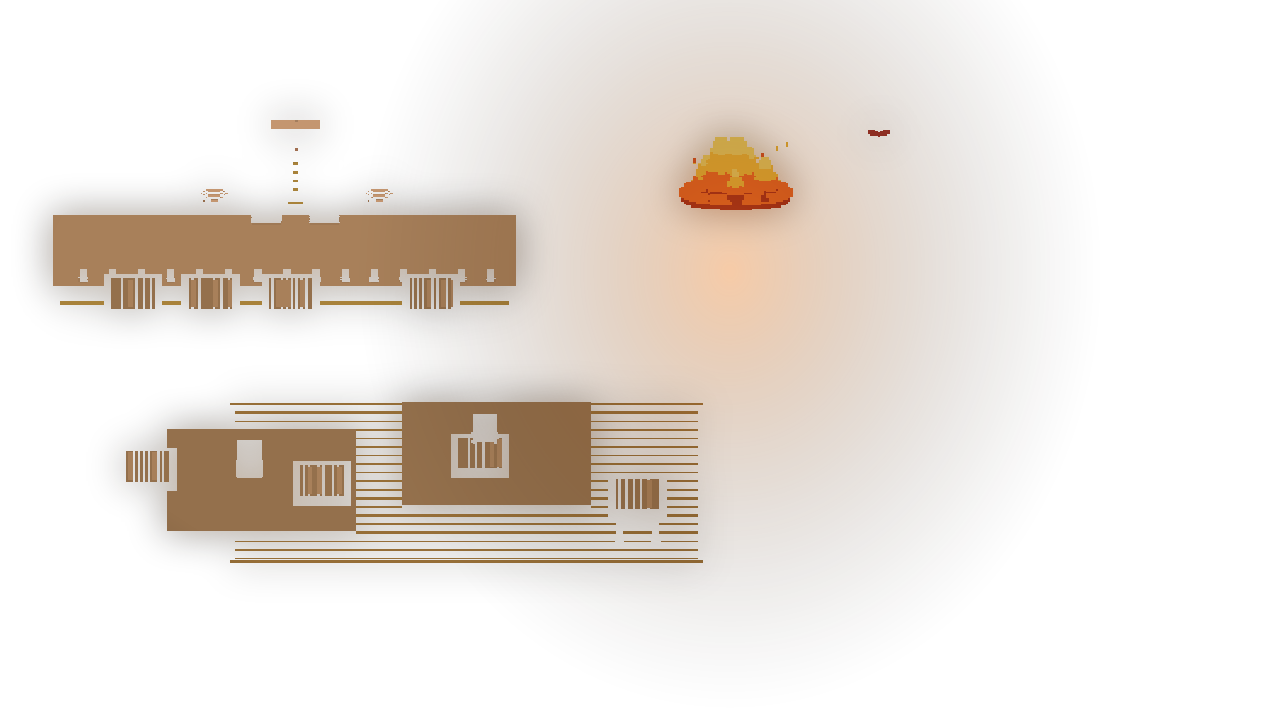
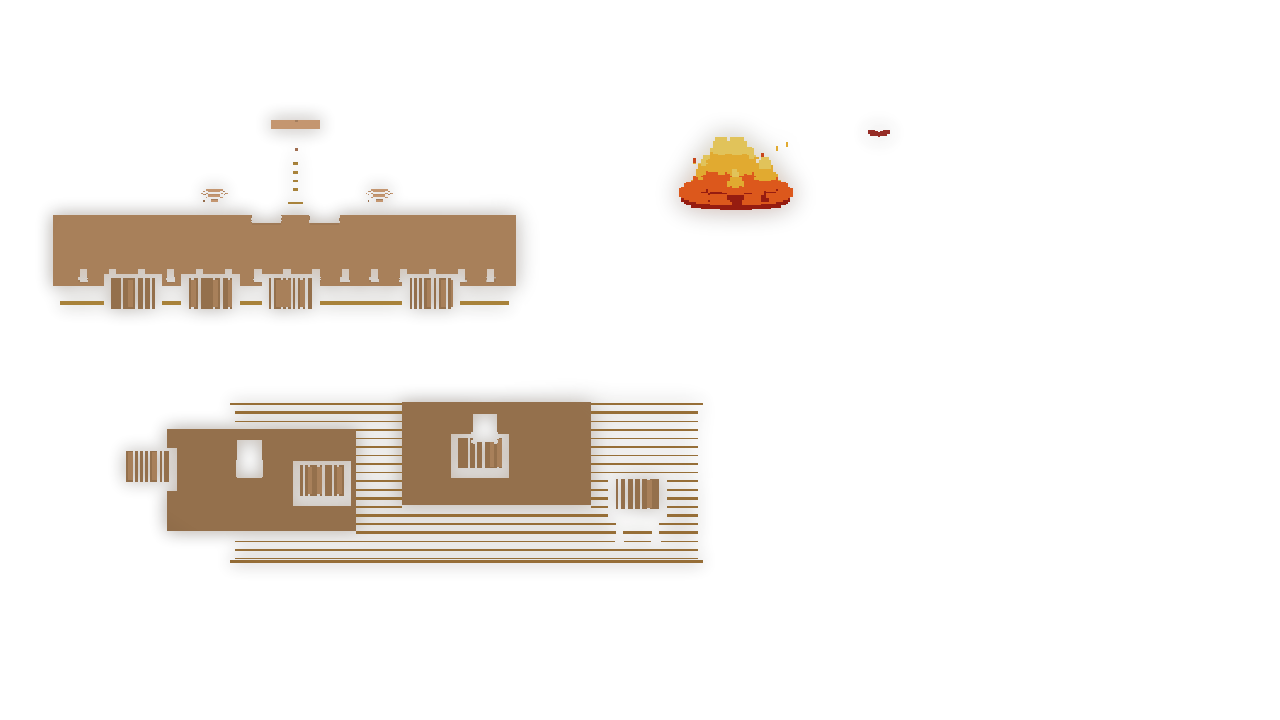
art(saloon): fix fire-glow regressions vs bb36a04
Restore bb36 night grade/contrast outside the hearth, replace the
hard-edged lights pool with a soft blurred radial, keep the fuller
flames, and feather flicker sheet edges. Concept selected state stays
Old Magda / DRIVER / 60 scrap at table_left.

diff --git a/tools/art/saloon_hd.py b/tools/art/saloon_hd.py
@@ -637,10 +637,9 @@ def place_on_room(img, own_img, room=(1280, 720), target_crew_h=TARGET_CREW_H):
 
 
 def grade_night(rgba, em, pool_boost=1.0):
-    """Grade ambient/shadows toward #512b11; keep lit-surface hue.
-    Fireplace is the hero light: warm floor pool (~350px), rim on fire-facing
-    surfaces, glow on hearth/mantel; far corners stay dark. pool_boost pulses
-    the glow with flicker frames (~0.85–1.15)."""
+    """bb36a04 night grade (hue-preserving) + soft hearth glow only.
+    Glow is a heavily blurred radial — no hard circle/rect edges.
+    pool_boost pulses with flicker (~0.85–1.15)."""
     rgb = rgba[:, :, :3].astype(np.float32)
     tint = np.array([0x51, 0x2b, 0x11], dtype=np.float32)
     lum = (rgb @ np.array([0.299, 0.587, 0.114], dtype=np.float32))
@@ -653,86 +652,70 @@ def grade_night(rgba, em, pool_boost=1.0):
     out = ambient * (1.0 - lit[..., None]) + warm_lit * lit[..., None]
     body = (rgba[:, :, 3] > 0) & ~em
     out[body] = np.clip(out[body] * (0.95 + 0.08 * lit[body][..., None]) + 3.0, 0, 255)
-
-    # --- Fireplace hero pool + rim (screen-space) ---
+    e = np.zeros_like(out)
+    e[em] = np.clip(rgb[em], 0, 230)
+    glow = np.array(Image.fromarray(np.clip(e, 0, 255).astype(np.uint8)).filter(
+        ImageFilter.GaussianBlur(10))).astype(np.float32)
+    out = out + glow * 0.45
+    out = np.clip(out, 0, 235)
+    out[em] = np.clip(rgb[em], 0, 225)
+    near_white = (out[:, :, 0] > 220) & (out[:, :, 1] > 220) & (out[:, :, 2] > 200)
+    if near_white.any():
+        out[near_white] = np.array([225, 160, 55], dtype=np.float32)
     H, W = out.shape[:2]
     Y, X = np.mgrid[0:H, 0:W].astype(np.float32)
-    # Prefer fire em in the back-centre band (exclude table lanterns)
-    # Hearth band only — exclude bar/table lanterns (fire sits ~centre-back)
-    fire_band = em & (Y < H * 0.48) & (X > W * 0.40) & (X < W * 0.72)
+    v = np.clip((np.hypot((X - W / 2) / (W * 0.60), (Y - H * 0.42) / (H * 0.60)) - 0.78) / 0.42, 0, 1)
+    out *= (1.0 - 0.42 * v)[..., None]
+
+    # --- Soft hearth hero glow (no hard edge) ---
+    # Hearth band only — exclude lanterns
+    fire_band = em & (Y < H * 0.48) & (X > W * 0.42) & (X < W * 0.70)
     if fire_band.any():
         ys, xs = np.where(fire_band)
         fcx, fcy = float(xs.mean()), float(ys.mean())
     else:
         fcx, fcy = W * 0.55, H * 0.22
-    # Floor pool centre sits in front of the hearth opening
-    pcx, pcy = fcx, min(H - 1.0, fcy + 90.0)
-    dist = np.hypot(X - pcx, (Y - pcy) * 0.85)
-    # ~350–400 px soft falloff
-    pool = np.clip(1.0 - dist / 380.0, 0, 1) ** 1.25
+    # Floor pool sits in front of the hearth
+    pcx, pcy = fcx, min(H - 1.0, fcy + 85.0)
+    dist = np.hypot(X - pcx, (Y - pcy) * 0.88)
+    # Soft analytic falloff, then heavy blur so no shape edge is visible
+    raw = np.clip(1.0 - dist / 260.0, 0, 1)
+    raw = raw * raw * (3.0 - 2.0 * raw)  # smoothstep
+    pool = np.array(Image.fromarray((raw * 255).astype(np.uint8)).filter(
+        ImageFilter.GaussianBlur(56))).astype(np.float32) / 255.0
+    # Tiny dither breaks any residual banding
+    pool = np.clip(pool + (np.random.default_rng(3).random(pool.shape).astype(np.float32) - 0.5) * 0.03 * pool, 0, 1)
     pool *= float(pool_boost)
-    warm = np.array([1.60, 0.92, 0.38], dtype=np.float32)
-    add = pool[..., None] * warm[None, None, :] * 72.0
+    warm = np.array([1.55, 0.90, 0.35], dtype=np.float32)
+    # Additive warm lift on body only — leaves far regions at bb36 grade
+    add = pool[..., None] * warm[None, None, :] * 20.0
     out[body] = np.clip(out[body] + add[body], 0, 235)
-    # Warm rim on surfaces facing the fire (toward-fire side)
-    toward = np.clip(1.0 - np.hypot(X - fcx, Y - fcy) / 320.0, 0, 1)
-    rim = (toward * np.clip(pool * 1.1, 0, 1) * 0.7 * float(pool_boost))[..., None]
-    rim = rim * np.array([48.0, 26.0, 8.0], dtype=np.float32)
+    # Soft rim toward fire (also blurred weight)
+    toward = np.array(Image.fromarray(
+        (np.clip(1.0 - np.hypot(X - fcx, Y - fcy) / 300.0, 0, 1) * 255).astype(np.uint8)
+    ).filter(ImageFilter.GaussianBlur(24))).astype(np.float32) / 255.0
+    rim = (toward * pool * 0.35 * float(pool_boost))[..., None] * np.array([22.0, 12.0, 4.0], dtype=np.float32)
     out[body] = np.clip(out[body] + rim[body], 0, 235)
-    # Glow on hearth stones / mantel (tight to fire)
-    hearth = body & (np.hypot(X - fcx, Y - fcy) < 110)
-    out[hearth] = np.clip(out[hearth] + np.array([38, 20, 6], dtype=np.float32) * float(pool_boost), 0, 235)
-    # Soft warm cast on nearby beams/ceiling
-    ceil = (Y < fcy + 40) & (np.abs(X - fcx) < 240) & body
-    out[ceil] = np.clip(out[ceil] + np.array([34, 18, 6], dtype=np.float32) * float(pool_boost), 0, 235)
-
-    # Emissive sculpt + hard anti-blowout clamp
-    e = np.zeros_like(out)
-    e[em] = np.clip(rgb[em], 0, 225)
-    glow = np.array(Image.fromarray(np.clip(e, 0, 255).astype(np.uint8)).filter(
-        ImageFilter.GaussianBlur(14))).astype(np.float32)
-    out = out + glow * (0.55 * float(pool_boost))
-    out = np.clip(out, 0, 235)
-    out[em] = np.clip(rgb[em], 0, 220)
-    near_white = (out[:, :, 0] > 220) & (out[:, :, 1] > 220) & (out[:, :, 2] > 200)
-    if near_white.any():
-        out[near_white] = np.array([220, 150, 50], dtype=np.float32)
-    # Far-corner vignette (keep dark away from the fire)
-    v = np.clip((np.hypot((X - W / 2) / (W * 0.60), (Y - H * 0.42) / (H * 0.60)) - 0.78) / 0.42, 0, 1)
-    # Ease vignette inside the fire pool so the hearth stays readable
-    v = v * (1.0 - 0.75 * pool)
-    out *= (1.0 - 0.42 * v)[..., None]
+    # Mantel / hearth stones (tight, soft)
+    hearth_w = np.array(Image.fromarray(
+        (np.clip(1.0 - np.hypot(X - fcx, Y - fcy) / 95.0, 0, 1) * 255).astype(np.uint8)
+    ).filter(ImageFilter.GaussianBlur(10))).astype(np.float32) / 255.0
+    hearth_add = (hearth_w * float(pool_boost))[..., None] * np.array([16.0, 8.0, 2.0], dtype=np.float32)
+    out[body] = np.clip(out[body] + hearth_add[body], 0, 235)
     return np.clip(out, 0, 235).astype(np.uint8)
 
 
 
 def lights_overlay(rgb, em, pool_boost=1.0):
-    """Emissive cores + soft fire bloom that reaches the floor pool."""
+    """Emissive cores + soft gaussian bloom only. No hard-edged pool shape."""
     out = np.zeros((rgb.shape[0], rgb.shape[1], 4), np.uint8)
-    out[em, :3] = np.clip(rgb[em], 0, 220)
+    out[em, :3] = np.clip(rgb[em], 0, 230)
     out[em, 3] = 255
-    bloom = np.array(Image.fromarray(out).filter(ImageFilter.GaussianBlur(18))).astype(np.float32)
-    bloom[..., 3] *= 0.55 * float(pool_boost)
-    # Extra warm pool baked into lights plate (composites over room)
-    H, W = rgb.shape[:2]
-    Y, X = np.mgrid[0:H, 0:W].astype(np.float32)
-    fire_band = em & (Y < H * 0.48) & (X > W * 0.40) & (X < W * 0.72)
-    if fire_band.any():
-        ys, xs = np.where(fire_band)
-        fcx, fcy = float(xs.mean()), float(ys.mean()) + 90.0
-    else:
-        fcx, fcy = W * 0.55, H * 0.32
-    dist = np.hypot(X - fcx, (Y - fcy) * 0.85)
-    pool = np.clip(1.0 - dist / 380.0, 0, 1) ** 1.25 * float(pool_boost)
-    pool_rgba = np.zeros((H, W, 4), np.float32)
-    pool_rgba[..., 0] = 255 * pool
-    pool_rgba[..., 1] = 135 * pool
-    pool_rgba[..., 2] = 36 * pool
-    pool_rgba[..., 3] = 110 * pool
-    base = Image.alpha_composite(
+    bloom = np.array(Image.fromarray(out).filter(ImageFilter.GaussianBlur(12))).astype(np.float32)
+    bloom[..., 3] *= 0.40 * float(pool_boost)
+    return Image.alpha_composite(
         Image.fromarray(np.clip(bloom, 0, 255).astype(np.uint8), "RGBA"),
         Image.fromarray(out, "RGBA"))
-    return Image.alpha_composite(base, Image.fromarray(np.clip(pool_rgba, 0, 255).astype(np.uint8), "RGBA"))
 
 
 
@@ -846,22 +829,26 @@ def bake(tilt=TILT_GAME, write_assets=True):
         print(f"  {sid} opaque~", Image.open(os.path.join(OUT, f"crew_{sid}_idle.png")).getbbox(),
               "size", (nw, nh), "pos", pos)
 
-    # animations — fire flicker includes pulsing floor glow pool
+    # animations — fire flicker + soft pool pulse (feathered crop, no hard rect)
     fire_frames = []
     boosts = (0.88, 1.00, 1.12, 0.96)
-    # Crop covers hearth + floor pool in front (~400px down)
     fx, fy, fw, fh = 480, 40, 400, 380
+    # Feather mask so the sheet never shows a rectangle when pasted
+    yy, xx = np.mgrid[0:fh, 0:fw].astype(np.float32)
+    edge = np.minimum(np.minimum(xx, fw - 1 - xx), np.minimum(yy, fh - 1 - yy))
+    feather = np.clip(edge / 36.0, 0, 1).astype(np.float32)
+    feather = np.array(Image.fromarray((feather * 255).astype(np.uint8)).filter(
+        ImageFilter.GaussianBlur(8))).astype(np.float32) / 255.0
     for fi in range(4):
         gf, of = build_room(False, fire_frame=fi, lantern_pulse=0, breath=0)
         im, oi, _ = render_scene(gf, of, tilt)
         rgba, _, emf, _ = place_on_room(im, oi)
         graded_f = grade_night(rgba, emf, pool_boost=boosts[fi])
-        # Lights-only-ish plate: emissives + pool delta vs a dark base
         lights_f = lights_overlay(graded_f, emf, pool_boost=boosts[fi])
-        # Also keep flame RGB from graded for the sheet
-        arr = np.array(lights_f)
+        arr = np.array(lights_f).astype(np.float32)
         crop = arr[fy:fy + fh, fx:fx + fw].copy()
-        fire_frames.append(Image.fromarray(crop))
+        crop[..., 3] *= feather
+        fire_frames.append(Image.fromarray(np.clip(crop, 0, 255).astype(np.uint8), "RGBA"))
     fww, fhh = fire_frames[0].size
     fire_strip = Image.new("RGBA", (fww * 4, fhh))
     for i, fr in enumerate(fire_frames):
